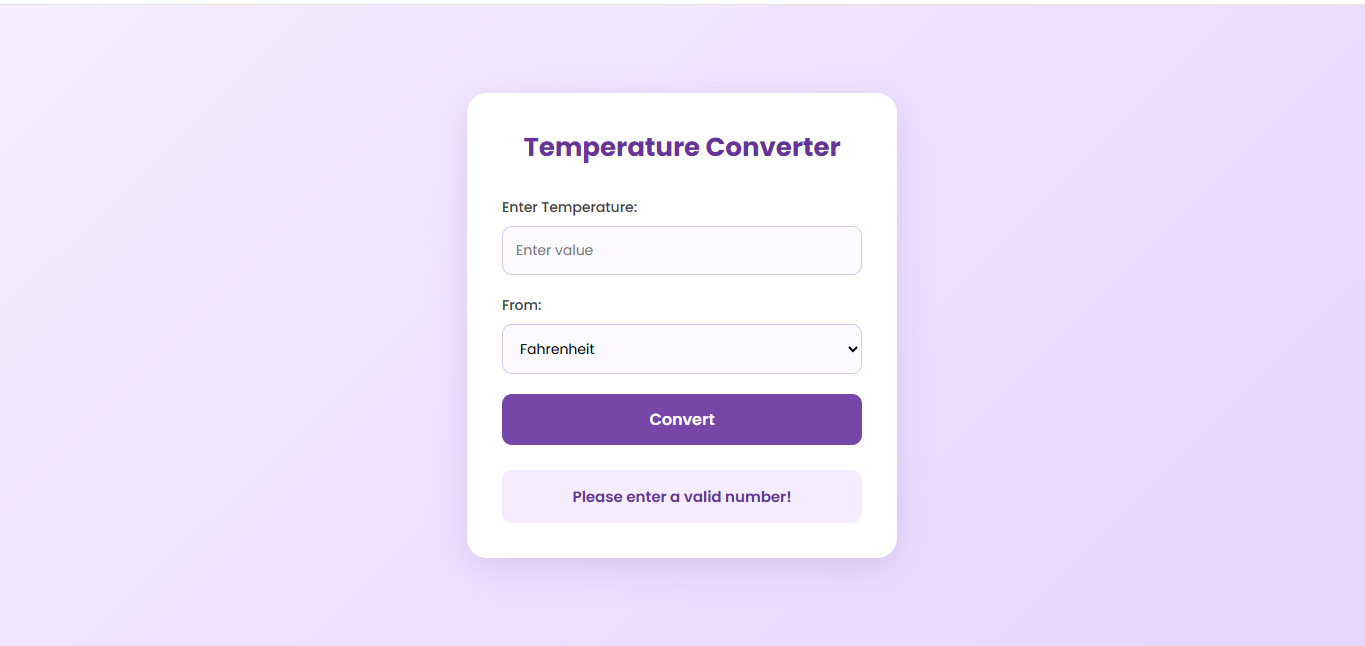
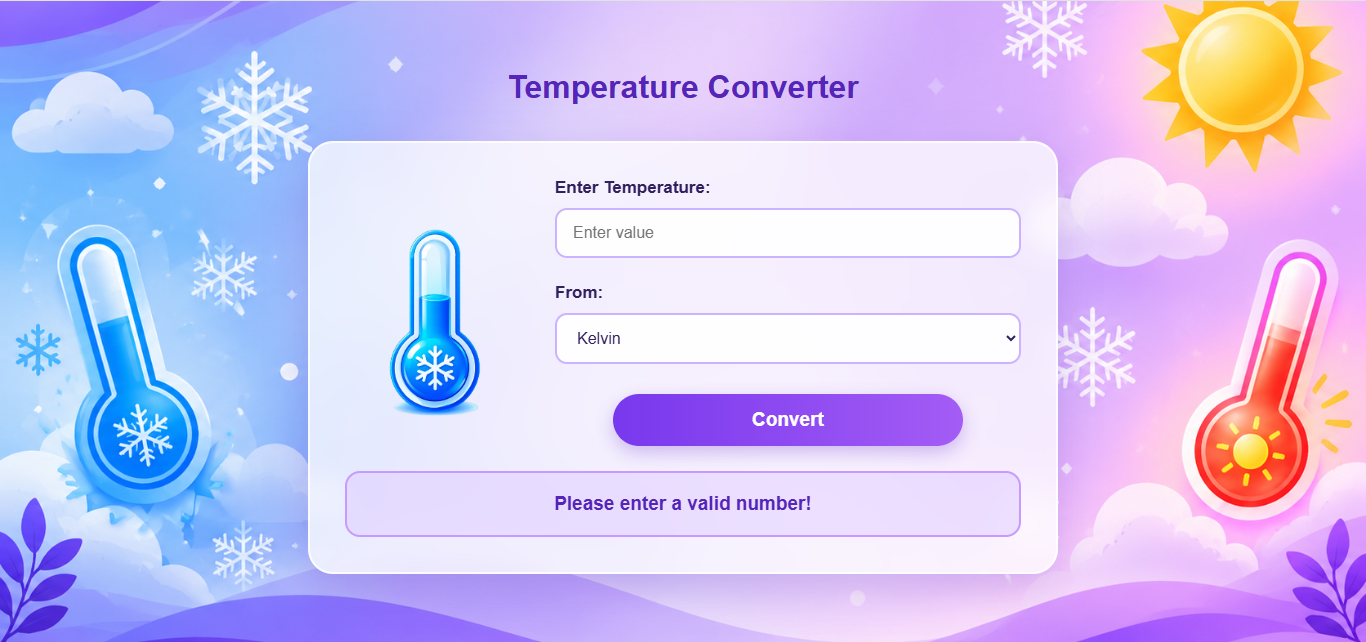
Internship Task

diff --git a/WebDev-L1-LandingPage/index.html b/WebDev-L1-LandingPage/index.html
@@ -23,7 +23,7 @@
 <body>
   <header>
 
-   <a href="index.html" class="nav-logo">
+    <a href="index.html" class="nav-logo">
       <img src="images/logo.png" alt="">
     </a>
     <div class="nav_menu">
@@ -88,21 +88,24 @@
     </section>
 
     <section>
-      <form id="contact" name="contact" method="POST" data-netlify="true">
-  <input type="hidden" name="form-name" value="contact">
+
+      <form id="contact" action="https://formspree.io/f/mqadvgky" method="POST">
 
         <h2>Contact Form</h2>
+
         <div class="container">
 
-          <input type="text" name="user_name" id="name" placeholder="Enter Your Name" title="Please fill this field"
-            required><br>
-          <input type="email" name="email" id="email" placeholder="Enter Your Email" title="Please fill this field"
-            required><br>
-          <textarea name="user_message" cols="62" rows="8" spellcheck="" placeholder="Enter your message"
-            title="Please fill this field" required></textarea>
+          <input type="text" name="name" id="name" placeholder="Enter Your Name" required><br>
+
+          <input type="email" name="email" id="email" placeholder="Enter Your Email" required><br>
+
+          <textarea name="message" cols="62" rows="8" placeholder="Enter your message" required></textarea>
+
           <input type="submit" value="SUBMIT" class="btn" id="submit">
+
         </div>
       </form>
+
     </section>
 
   </main>

diff --git a/WebDev-L1-TemperatureConverter/script.js b/WebDev-L1-TemperatureConverter/script.js
@@ -31,20 +31,23 @@ convertBtn.addEventListener("click", function () {
         return;
     }
 
-    // Pehle sab ko Celsius mein badalna
-    var celsius;
-    
+     // Teeno values ke naam
+    var celsius, fahrenheit, kelvin;
+
+    // Jis unit mein user ne likha, uske hisaab se baqi nikalna
     if (from === "Celsius") {
         celsius = temp;
+        fahrenheit = temp * 9 / 5 + 32;
+        kelvin = temp + 273.15;
     } else if (from === "Fahrenheit") {
         celsius = (temp - 32) * 5 / 9;
+        fahrenheit = temp;
+        kelvin = (temp - 32) * 5 / 9 + 273.15;
     } else {
         celsius = temp - 273.15;
+        fahrenheit = (temp - 273.15) * 9 / 5 + 32;
+        kelvin = temp;
     }
-
-    // Celsius se baqi units nikalna
-    var fahrenheit = celsius * 9 / 5 + 32;
-    var kelvin = celsius + 273.15;
 
     // Result dikhana
     result.innerHTML =

diff --git a/WebDev-L1-TemperatureConverter/style.css b/WebDev-L1-TemperatureConverter/style.css
@@ -171,6 +171,11 @@ button:hover {
         width: 100%;
     }
 
+    .sub-container > div:first-child {
+    flex: none;
+    text-align: center;
+}
+
     button {
         width: 100%;
     }

diff --git a/WebDev-L1-TemperatureConverter/README.md b/WebDev-L1-TemperatureConverter/README.md
@@ -7,9 +7,17 @@ Temperature Converter is a simple and responsive web application that converts t
 https://webdev-l1-temperatureconverter.netlify.app
 
 ## Screenshots
+
+### Result (100 °C)
 ![Result](screenshots/temperature-converter-result.png)
-![Empty Input Validation](screenshots/empty-input-validation.png)
-![Absolute Zero Validation](screenshots/absolute-zero-validation.png)
+
+### Empty input
+![Empty input validation](screenshots/empty-input-validation.png)
+
+### Below absolute zero
+![Celsius error](screenshots/absolute-zero-celsius.png)
+![Fahrenheit error](screenshots/absolute-zero-fahrenheit.png)
+![Kelvin error](screenshots/absolute-zero-kelvin.png)
 
 ## Features
 - Convert Celsius to Fahrenheit.
